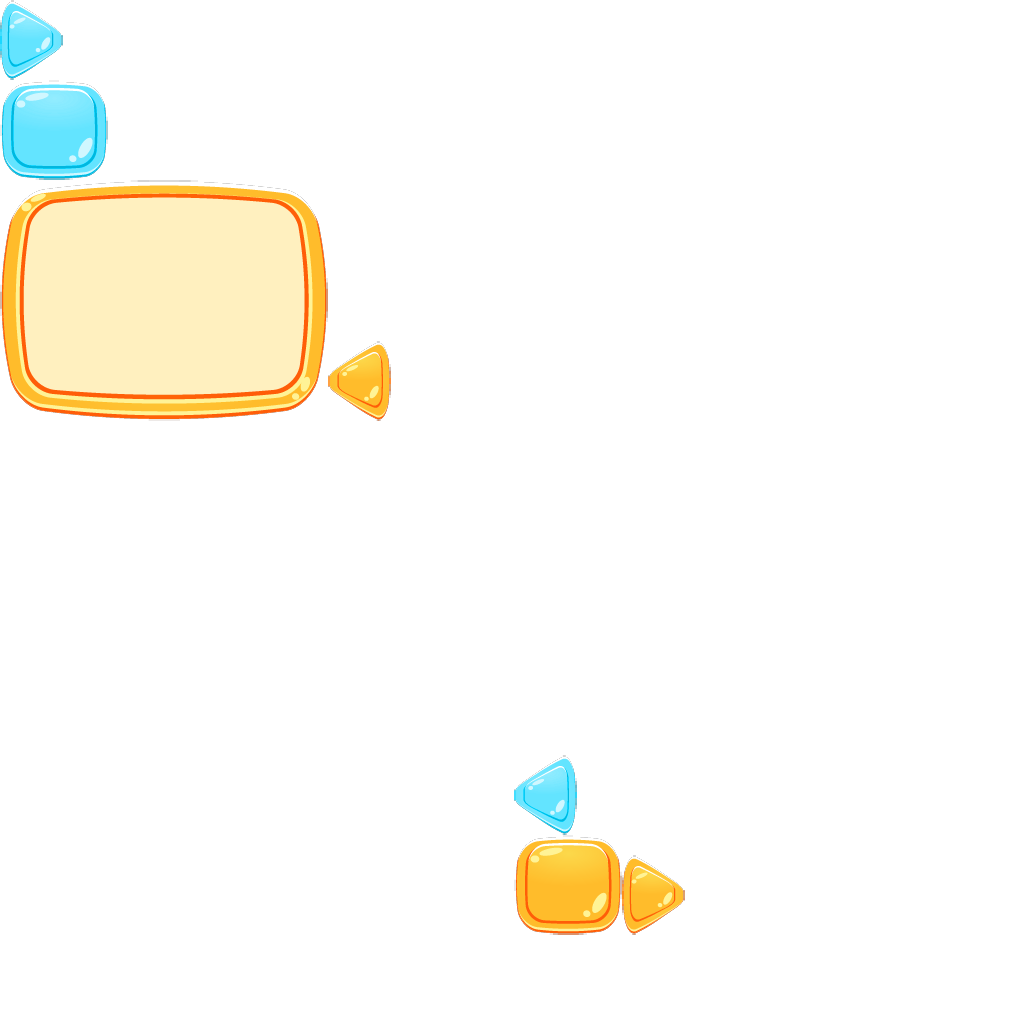
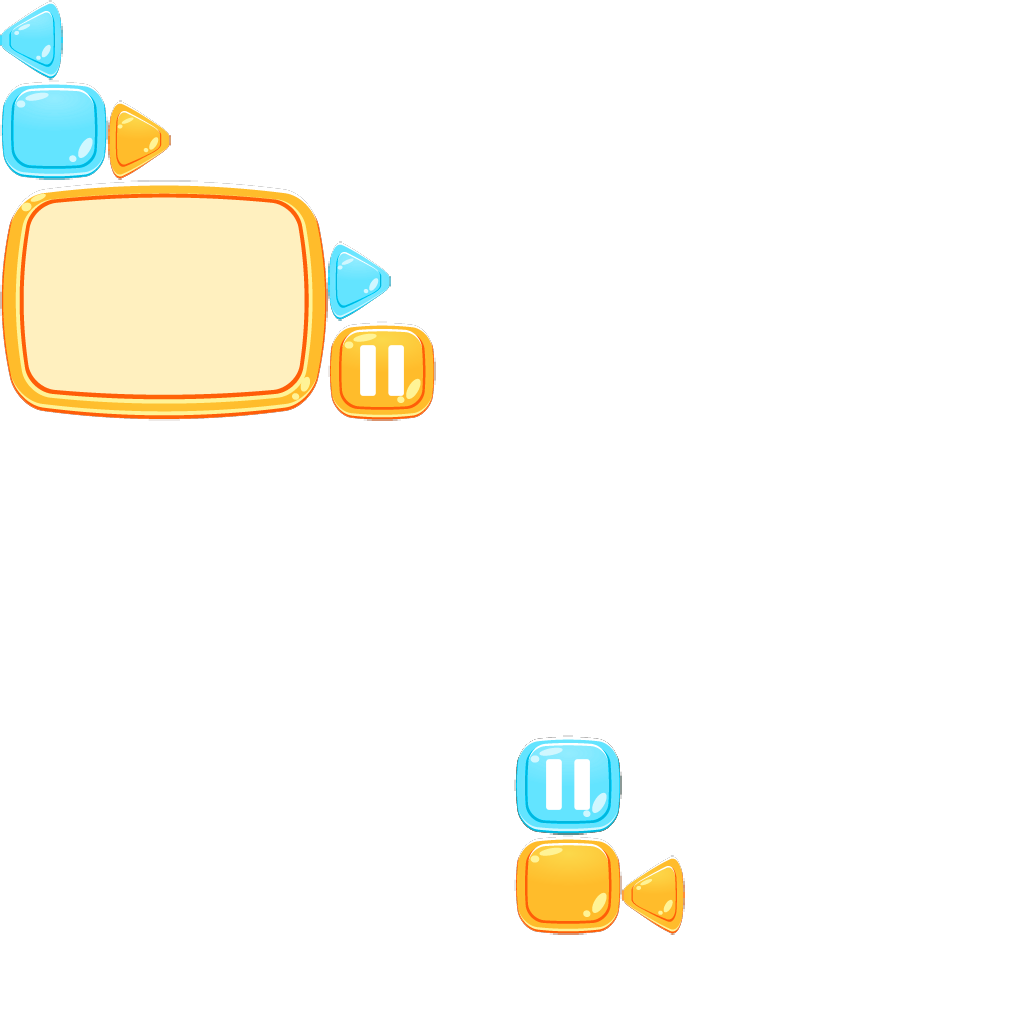
Minor improvements with positioning and graphics

diff --git a/core/src/com/mygdx/forkliftaone/screens/game/GameScreen.java b/core/src/com/mygdx/forkliftaone/screens/game/GameScreen.java
@@ -9,6 +9,7 @@ import com.badlogic.gdx.assets.AssetManager;
 import com.badlogic.gdx.graphics.Color;
 import com.badlogic.gdx.graphics.GL20;
 import com.badlogic.gdx.graphics.OrthographicCamera;
+import com.badlogic.gdx.graphics.Texture;
 import com.badlogic.gdx.graphics.g2d.BitmapFont;
 import com.badlogic.gdx.graphics.g2d.GlyphLayout;
 import com.badlogic.gdx.graphics.g2d.SpriteBatch;
@@ -25,6 +26,7 @@ import com.badlogic.gdx.scenes.scene2d.Actor;
 import com.badlogic.gdx.scenes.scene2d.InputEvent;
 import com.badlogic.gdx.scenes.scene2d.Stage;
 import com.badlogic.gdx.scenes.scene2d.Touchable;
+import com.badlogic.gdx.scenes.scene2d.ui.ImageButton;
 import com.badlogic.gdx.scenes.scene2d.ui.ProgressBar;
 import com.badlogic.gdx.scenes.scene2d.ui.Skin;
 import com.badlogic.gdx.scenes.scene2d.ui.Table;
@@ -70,6 +72,7 @@ public class GameScreen extends ScreenAdapter implements InputProcessor {
     private Table table;
     private Skin skin;
     private TextButton fuelButton;
+    private TextureRegion coinTexture;
 
 
     //test
@@ -133,6 +136,7 @@ public class GameScreen extends ScreenAdapter implements InputProcessor {
         TextureRegion forkliftRegion = gamePlayAtlas.findRegion(RegionNames.FORKLIFT_BODY);
         TextureRegion wheelRegion = gamePlayAtlas.findRegion(RegionNames.FORKLIFT_WHEEL);
         TextureRegion backgoundRegion = gamePlayAtlas.findRegion(RegionNames.TEST_BACKGROUND);
+        this.coinTexture = gamePlayAtlas.findRegion(RegionNames.COIN_TEXTURE);
 
 //        map = new TestMap(world, camera, stage, gamePlayAtlas);
         map = new CustomTestMap(world, camera, stage, gamePlayAtlas);
@@ -185,16 +189,16 @@ public class GameScreen extends ScreenAdapter implements InputProcessor {
 
         // Fuel system
         // Should be implemented through dialog window with saving
-        if (forklift.isFuelTankEmpty()){
+        if (forklift.isFuelTankEmpty()) {
             game.setScreen(new MenuScreen(game));
         }
 
-        if (forklift.isHasFuel()){
-            if (fuelButton.getTouchable().equals(Touchable.disabled)){
+        if (forklift.isHasFuel()) {
+            if (fuelButton.getTouchable().equals(Touchable.disabled)) {
                 fuelButton.setTouchable(Touchable.enabled);
             }
             fuelStage.draw();
-        } else if (fuelButton.getTouchable().equals(Touchable.enabled)){
+        } else if (fuelButton.getTouchable().equals(Touchable.enabled)) {
             fuelButton.setTouchable(Touchable.disabled);
         }
 
@@ -213,10 +217,11 @@ public class GameScreen extends ScreenAdapter implements InputProcessor {
     // Testing UI
     private void renderUi() {
         // Testing style. Should be replaced with a picture from Asset Manager
+        // Position should be absolute. It should not depend on screen/viewport width and height
         shapeRenderer.setColor(Color.CYAN);
         shapeRenderer.begin(ShapeRenderer.ShapeType.Filled);
-        shapeRenderer.box(0, Gdx.graphics.getHeight() - (layout.height + 40f), 0,
-                Gdx.graphics.getWidth(), layout.height + 40f, 1);
+        shapeRenderer.box(0, 480f - (layout.height + 40f), 0,
+                800f, layout.height + 40f, 1);
         shapeRenderer.end();
 
         batch.setProjectionMatrix(uiCamera.combined);
@@ -237,6 +242,17 @@ public class GameScreen extends ScreenAdapter implements InputProcessor {
 
         // Draw fuel icon
         bar.setValue(forklift.getFuelTank());
+
+        // Drawing coin image
+        batch.draw(coinTexture, // Texture
+                0, 400f, // Texture position
+                0, 0, // Rotation point (width / 2, height /2 = center)
+                uiViewport.getScreenHeight() / 10f, uiViewport.getScreenHeight() / 10f, // Width and height of the texture
+                1f, 1f, //scaling
+                0); // Rotation (radiants to degrees)
+
+        System.out.println(uiViewport.getScreenWidth());
+
 
         batch.end();
 
@@ -281,6 +297,7 @@ public class GameScreen extends ScreenAdapter implements InputProcessor {
 
     private Actor createUi() {
         skin = new Skin(Gdx.files.internal("neon/neon-ui.json"));
+//        skin = new Skin(Gdx.files.internal("custom/CustomSkinUI.json"));
 
 
         table = new Table();
@@ -289,6 +306,7 @@ public class GameScreen extends ScreenAdapter implements InputProcessor {
         table.setPosition(0, Gdx.graphics.getHeight());
 
         TextButton menuButton = new TextButton("Menu", skin);
+//        ImageButton menuButton = new ImageButton(skin.get("pauseButton", ImageButton.ImageButtonStyle.class));
         menuButton.addListener(new ClickListener() {
             @Override
             public void clicked(InputEvent event, float x, float y) {
@@ -304,17 +322,17 @@ public class GameScreen extends ScreenAdapter implements InputProcessor {
         table.row();
 
         // Testing Fuel icon
-//        bar = new ProgressBar(0.0f, Gdx.graphics.getWidth()/2, 0.01f, false, skin.get("default", ProgressBar.ProgressBarStyle.class));
+
         bar = new ProgressBar(0, 100, 0.01f, false, skin);
 
         // The size of the fuel icon can be changed here
-        table.add(bar).width(Gdx.graphics.getWidth()/4).height(10f);
+        table.add(bar).width(Gdx.graphics.getWidth() / 4).height(10f);
 //        table.add(pb);
 
         return table;
     }
 
-    private Actor createFuelButton(){
+    private Actor createFuelButton() {
         skin = new Skin(Gdx.files.internal("neon/neon-ui.json"));
 
 
@@ -331,8 +349,8 @@ public class GameScreen extends ScreenAdapter implements InputProcessor {
                 forklift.setFuelTank(100f);
 
                 // Logic for deleting fuel can after pressing the button
-                for (Actor can : stage.getActors()){
-                    if (can instanceof FuelCan && ((FuelCan) can).isActive()){
+                for (Actor can : stage.getActors()) {
+                    if (can instanceof FuelCan && ((FuelCan) can).isActive()) {
                         ((FuelCan) can).detroyBox();
                     }
                 }

diff --git a/core/src/com/mygdx/forkliftaone/utils/AssetPaths.java b/core/src/com/mygdx/forkliftaone/utils/AssetPaths.java
@@ -6,7 +6,7 @@ public class AssetPaths {
 
     public static final String UI_FONT = "myfont.fnt";
     public static final String FORKLIFT_PACK = "packed/forkliftpack.atlas";
-    public static final String CUSTOM_PACK = "packed/custmPackedSet.atlas";
+    public static final String CUSTOM_PACK = "packed/customPack.atlas";
     public static final String TEST_TILED_MAP = "mapAssets/map-sample.tmx";
     public static final String CUSTOM_TILED_MAP = "mapAssets/customMap.tmx";
 }

diff --git a/core/src/com/mygdx/forkliftaone/utils/RegionNames.java b/core/src/com/mygdx/forkliftaone/utils/RegionNames.java
@@ -8,4 +8,5 @@ public class RegionNames {
     public static final String FORK_TEXTURE = "tubeytexture";
     public static final String TEST_BACKGROUND = "57bf2fe698ab4156c2d31ce1";
     public static final String BOX_TEXTURE = "box";
+    public static final String COIN_TEXTURE = "coin";
 }
